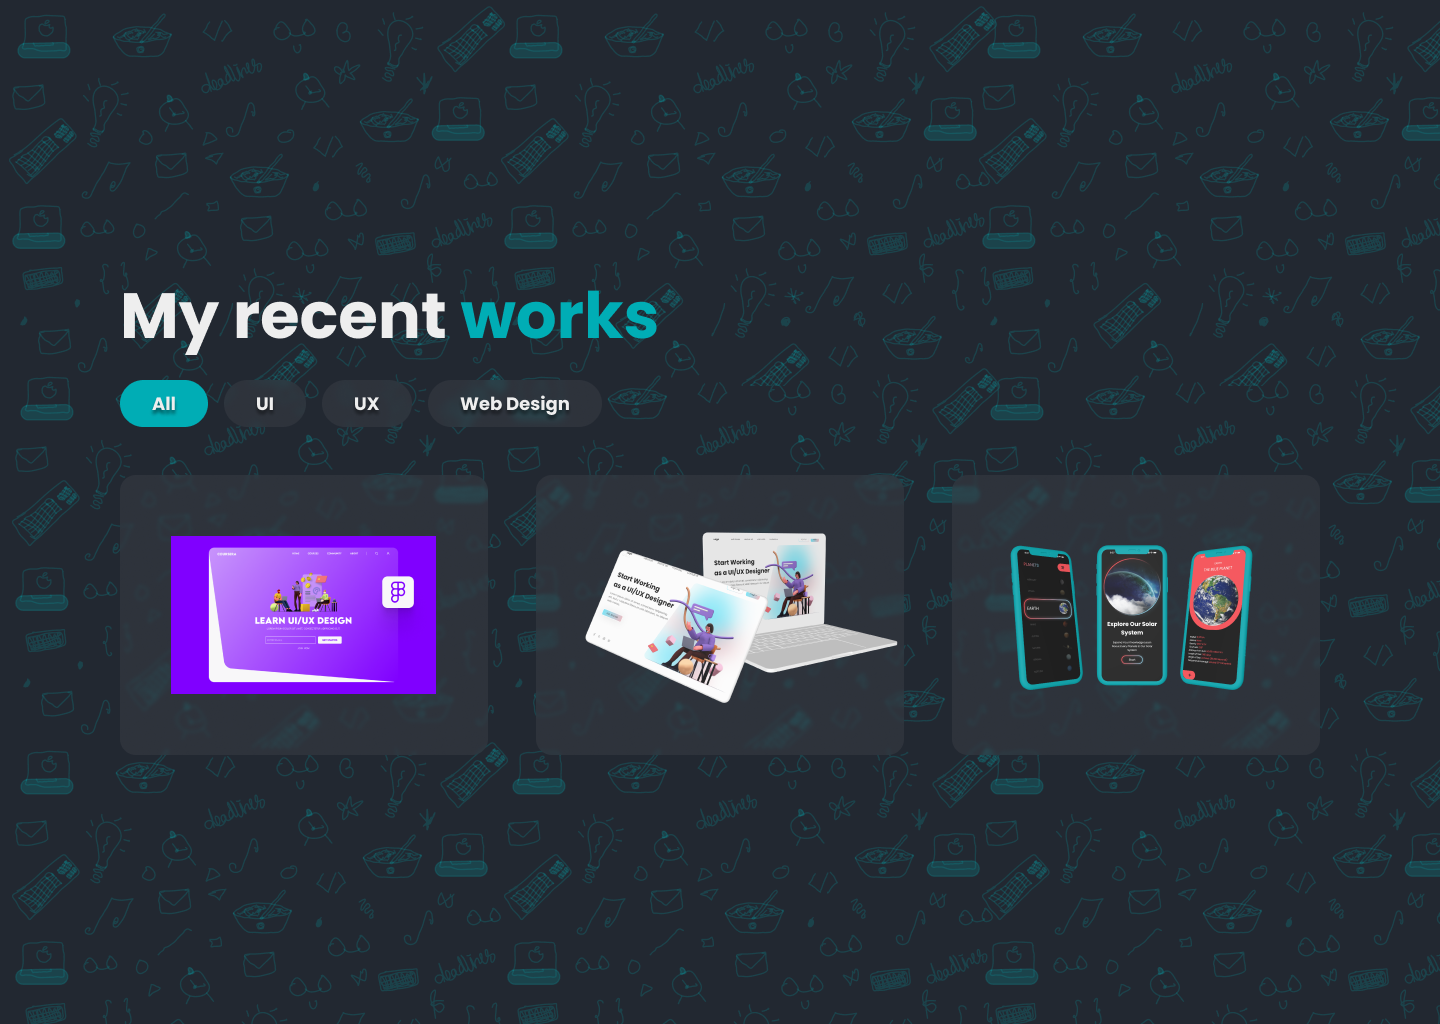
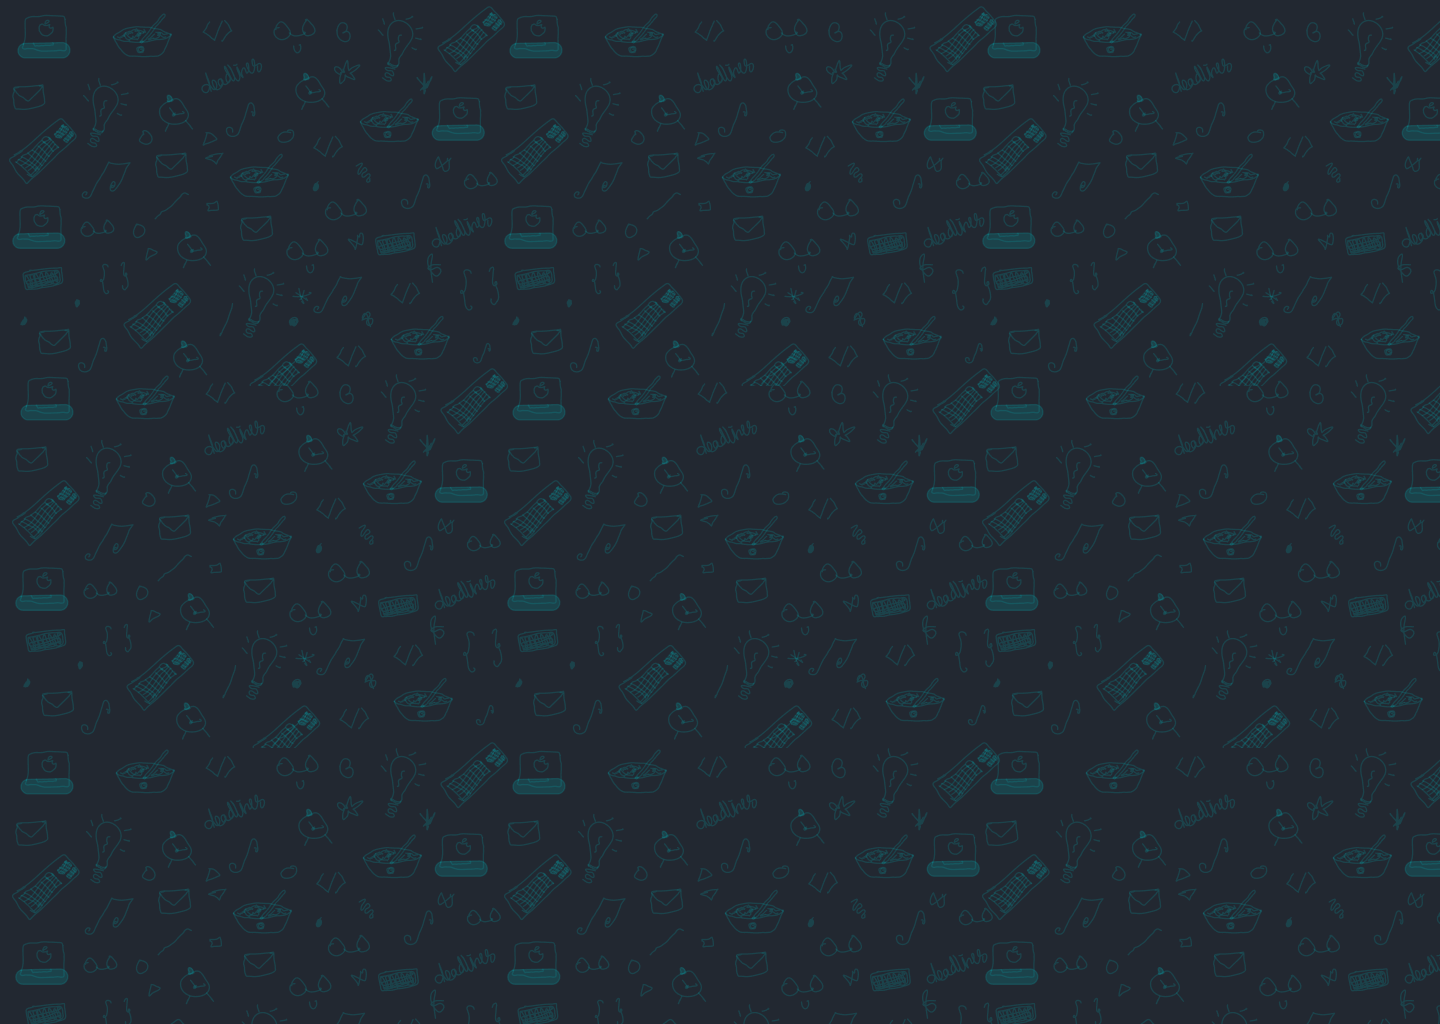
Added responsiveness

diff --git a/portfolio/src/pages/Works.jsx b/portfolio/src/pages/Works.jsx
@@ -7,7 +7,7 @@ import card3 from '/card3.png'
 
 const Works = () => {
   return (
-    <div className='h-[80vh] bg-[#222831] flex items-center justify-center gap-6 flex-col'>
+    <div className='h-[70vh] md:h-[80vh] flex items-center justify-center gap-6 flex-col bg-custom'>
         <div className="heading text-white">
             <h1 className='text-xl sm:text-3xl md:text-5xl '>My recent <span className='text-cyan-400'>works</span></h1>
         </div>
@@ -17,7 +17,7 @@ const Works = () => {
             <Options name={"UX"}/>
             <Options name={"Web Design"}/>
         </div>
-        <div className="cards flex justify-around h-[60%] w-[100%] items-center">
+        <div className="cards grid grid-cols-1 gap-4 md:flex md:justify-around h-[60%] w-[100%] md:items-center">
             <Cards src={card1}/>
             <Cards src={card2}/>
             <Cards src={card3}/>

diff --git a/portfolio/src/components/Cards.jsx b/portfolio/src/components/Cards.jsx
@@ -2,8 +2,8 @@ import React from 'react'
 
 const Cards = ({src}) => {
   return (
-    <div className='h-[30vh] custom-bg flex items-center justify-center rounded-sm relative'>
-        <img src={src} className='h-[80%] w-[80%]'/>
+    <div className='h-[15vh] w-[60%] justify-self-center md:h-[30vh] md:w-[30%] custom-bg flex items-center justify-center rounded-sm relative'>
+        <img src={src} className='h-[50%] w-[50%] md:h-[80%] md:w-[80%] '/>
     </div>
   )
 }

diff --git a/portfolio/src/index.css b/portfolio/src/index.css
@@ -4,3 +4,8 @@
 .custom-bg{
     background-color: rgba(128,128,128,0.1);
 }
+
+.bg-custom{
+    background-image: url("/BG.png");
+    background-size: cover;
+}
